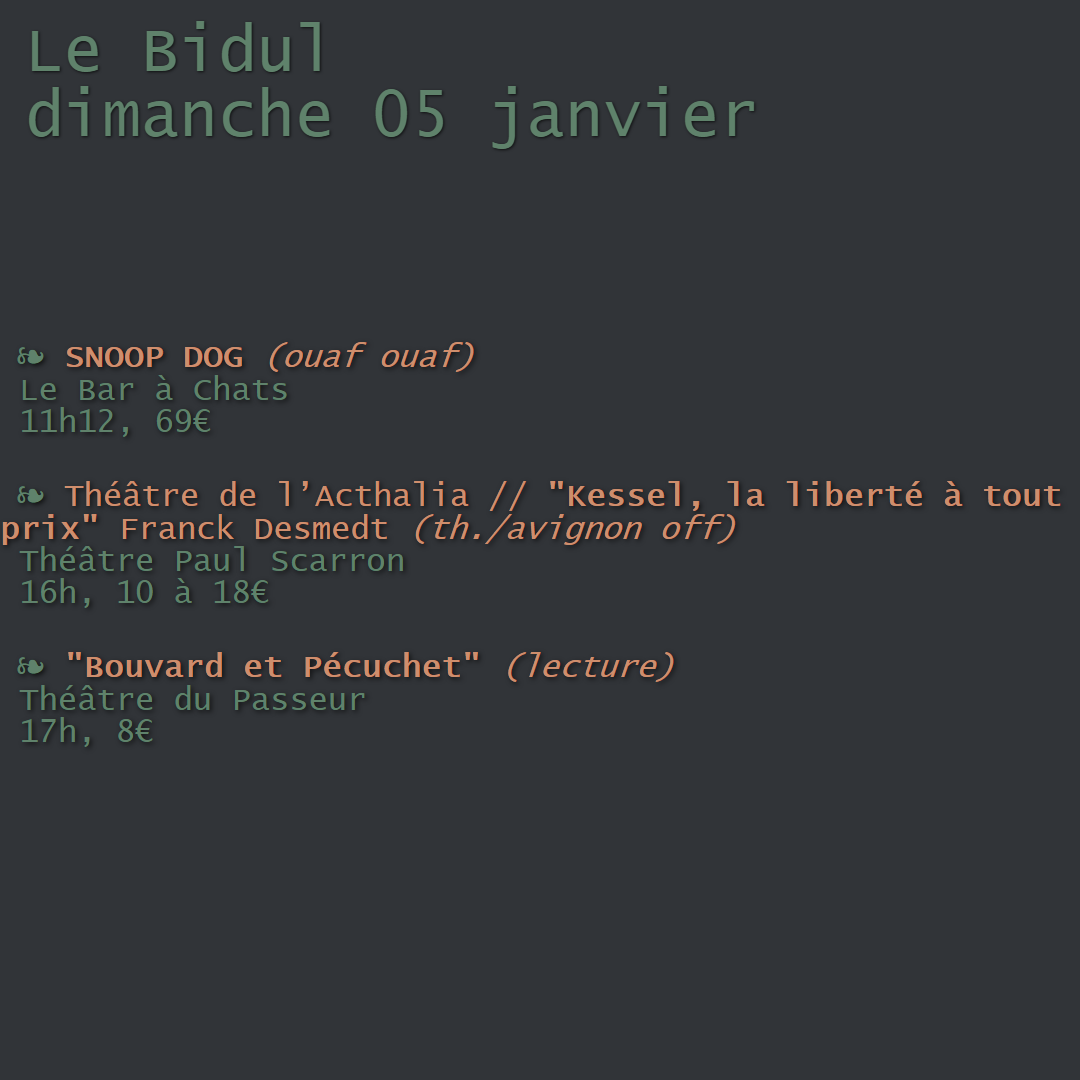
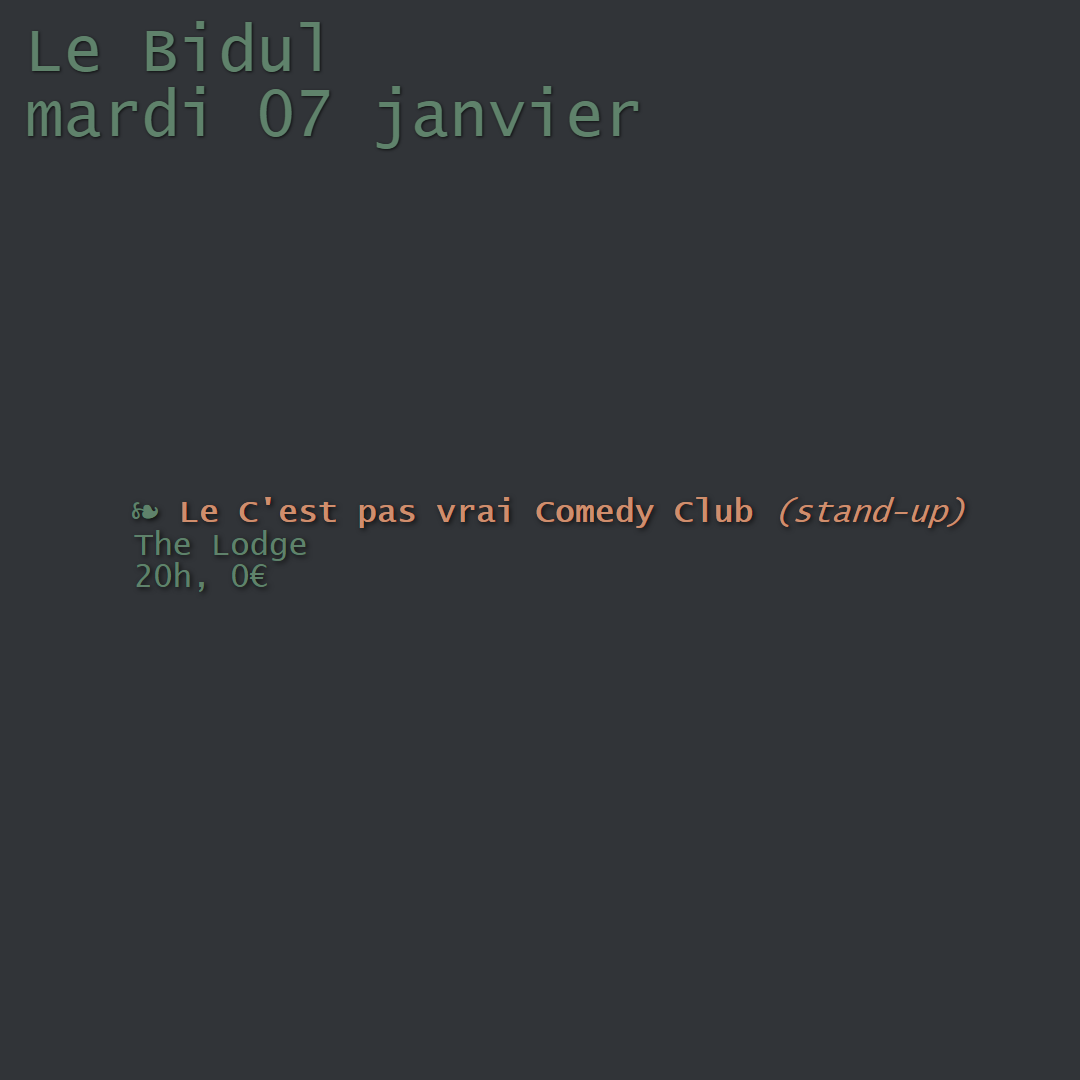
First working version

diff --git a/output/output_image.png.html b/output/output_image.png.html
@@ -44,13 +44,10 @@
             </style>
         </head>
         <body>
-            <div class="top-left">Le Bidul<br>dimanche 05 janvier</div>
+            <div class="top-left">Le Bidul<br>mardi 07 janvier</div>
             <div class="text">
-                <p style="font-family: Lucida Console">&ensp;&#10087 <span style="color:#CF8E6D"><strong>SNOOP DOG</strong> <em>(ouaf ouaf)</em></span><br>&nbspLe Bar à Chats <br>&nbsp11h12, 69€</p>
-
-<p style="font-family: Lucida Console">&ensp;&#10087 <span style="color:#CF8E6D">Théâtre de l’Acthalia // <strong>"Kessel, la liberté à tout prix"</strong> Franck Desmedt <em>(th./avignon off)</em></span><br>&nbspThéâtre Paul Scarron <br>&nbsp16h, 10 à 18€</p>
-
-<p style="font-family: Lucida Console">&ensp;&#10087 <span style="color:#CF8E6D"><strong>"Bouvard et Pécuchet"</strong>  <em>(lecture)</em></span><br>&nbspThéâtre du Passeur <br>&nbsp17h, 8€</p>
+                <p style="font-family: Lucida Console">&ensp;&#10087 <span style="color:#CF8E6D"><strong>Le C'est pas vrai Comedy Club</strong> <em>(stand-up)</em></span><br>&nbspThe Lodge <br>&nbsp20h, 0€</p>
             </div>
         </body>
         </html>
+    

diff --git a/main.py b/main.py
@@ -7,6 +7,7 @@ import schedule
 import locale
 from datetime import datetime
 import requests
+import sys
 
 # Configuration
 CSV_FILE = "./sample/202501_tapage_biduleur_janvier_2025.csv.md.tsv"
@@ -40,13 +41,9 @@ def upload_image_to_facebook(page_id, access_token, image_path, message):
     else:
         print("Error posting image:", response.json())
 
-# Call the function to post the image
-upload_image_to_facebook(PAGE_ID, ACCESS_TOKEN, IMAGE_PATH, MESSAGE)
-
 ## automate in cloud (git ?)
 ## post facebook
-## integrate enhanced biduleur to directly format the extracted string
-## push code to github
+## integrate enhanced bidul.biduleur to directly format the extracted string
 
 
 def extract_markdown_by_date(csv_file, date):
@@ -74,59 +71,11 @@ def get_date_info():
 
 def html_to_image(html_content, date, output_image):
 
-    rendered_html = f"""
-        <!DOCTYPE html>
-        <html lang="en">
-        <head>
-            <meta charset="UTF-8">
-            <meta name="viewport" content="width=device-width, initial-scale=1.0">
-            <title>Instagram Image</title>
-            <style>
-                body {{            
-                    margin: 0;
-                    padding: 0;
-                    height: 100vh;
-                    width: 100vw;
-                    background-color: #313438;
-                    background-position: center;
-                    display: flex;
-                    justify-content: center;
-                    align-items: center;
-                    position: relative;
-                }}
-                .text {{
-                    color: #5F826B;
-                    font-size: 2rem;
-                    font-family: Lucida Console;
-                    text-shadow: 2px 2px 5px rgba(0, 0, 0, 0.7);
-                    text-align: left;
-                }}
-                .top-left,
-                .top-right {{
-                    position: absolute;
-                    top: 20px;
-                    font-family: Lucida Console;
-                    font-size: 4rem; 
-                    color: #5F826B;
-                    text-shadow: 1px 1px 3px rgba(0, 0, 0, 0.7);
-                }}
-                .top-left {{
-                    left: 25px;
-                }}
-                .top-right {{
-                    right: 25px;
-                    text-align: right;
-                }}
-            </style>
-        </head>
-        <body>
-            <div class="top-left">Le Bidul<br>{date}</div>
-            <div class="text">
-                {html_content}
-            </div>
-        </body>
-        </html>
-    """
+    rendered_html = templates.render_template(
+        templates.HTML_TEMPLATE_GREEN_GREY_ORANGE,
+        content=html_content,
+        date=date
+    )
 
     # Render HTML to an image
     hti = Html2Image(output_path='./output/')
@@ -136,15 +85,15 @@ def html_to_image(html_content, date, output_image):
 
 
 def post_to_instagram(image_path, caption, username, password):
-    cl = Client()
-    cl.login(username, password)
-    cl.photo_upload(image_path, caption)
+    if post_to_instagram:
+        cl = Client()
+        cl.login(username, password)
+        cl.photo_upload(image_path, caption)
 
 
-def main():
+def main(instagram_post=True):
     day, today, date_in_french = get_date_info()
-    day = datetime.now().strftime("%d")
-    day = "12"
+    # day = "12"
     data = extract_markdown_by_date(CSV_FILE, day)
 
     if data.empty:
@@ -162,8 +111,11 @@ def main():
 
     # Post to Instagram
     text_post = get_post_text(date_in_french)
-    post_to_instagram(output_image_path[0], text_post, INSTAGRAM_USERNAME, INSTAGRAM_PASSWORD)
-    print(f"Posted update for {today} - output file: {output_image_path}")
+    if instagram_post:
+        post_to_instagram(output_image_path[0], text_post, INSTAGRAM_USERNAME, INSTAGRAM_PASSWORD)
+        print(f"Instagram post for {today} published - output file: {output_image_path}")
+
+    print(f"Image Generated for {today} - output file: {output_image_path}")
 
 
 # # Schedule the task daily at a specific time
@@ -176,4 +128,5 @@ def main():
 
 
 if __name__ == "__main__":
-    main()
+    instagram_post = "False" not in sys.argv
+    main(instagram_post)

diff --git a/templates.py b/templates.py
@@ -1,6 +1,6 @@
 from jinja2 import Template
 
-HTML_TEMPLATE_WITH_IMAGE = """
+HTML_TEMPLATE_WITH_IMAGE_OLD = """
         <!DOCTYPE html>
         <html lang="en">
         <head>
@@ -8,7 +8,7 @@ HTML_TEMPLATE_WITH_IMAGE = """
             <meta name="viewport" content="width=device-width, initial-scale=1.0">
             <title>Instagram Image</title>
             <style>
-                body {{
+                body {
                     margin: 0;
                     padding: 0;
                     height: 100vh;
@@ -20,14 +20,14 @@ HTML_TEMPLATE_WITH_IMAGE = """
                     justify-content: center;
                     align-items: center;
                     
-                }}
-                .text {{
+                }
+                .text {
                     color: #FF0000;
                     font-size: 2rem;
                     font-family: Cutive Mono, sans-serif;
                     text-shadow: 2px 2px 5px rgba(0, 0, 0, 0.7);
                     text-align: left;
-                }}
+                }
             </style>
         </head>
         <body>
@@ -38,7 +38,7 @@ HTML_TEMPLATE_WITH_IMAGE = """
         </html>
     """
 
-HTML_TEMPLATE_GREEN_GREY_ORANGE = """
+HTML_TEMPLATE_GREEN_GREY_ORANGE_OLD = """
         <!DOCTYPE html>
         <html lang="en">
         <head>
@@ -46,7 +46,7 @@ HTML_TEMPLATE_GREEN_GREY_ORANGE = """
             <meta name="viewport" content="width=device-width, initial-scale=1.0">
             <title>Instagram Image</title>
             <style>
-                body {{
+                body {
                     margin: 0;
                     padding: 0;
                     height: 100vh;
@@ -57,14 +57,14 @@ HTML_TEMPLATE_GREEN_GREY_ORANGE = """
                     justify-content: center;
                     align-items: center;
 
-                }}
-                .text {{
+                }
+                .text {
                     color: #5F826B;
                     font-size: 20px;
                     font-family: Cutive Mono, sans-serif;
                     text-shadow: 2px 2px 5px rgba(0, 0, 0, 0.7);
                     text-align: left;
-                }}
+                }
             </style>
         </head>
         <body>
@@ -76,6 +76,63 @@ HTML_TEMPLATE_GREEN_GREY_ORANGE = """
         </body>
         </html>
     """
+
+
+HTML_TEMPLATE_GREEN_GREY_ORANGE = """
+        <!DOCTYPE html>
+        <html lang="en">
+        <head>
+            <meta charset="UTF-8">
+            <meta name="viewport" content="width=device-width, initial-scale=1.0">
+            <title>Instagram Image</title>
+            <style>
+                body {            
+                    margin: 0;
+                    padding: 0;
+                    height: 100vh;
+                    width: 100vw;
+                    background-color: #313438;
+                    background-position: center;
+                    display: flex;
+                    justify-content: center;
+                    align-items: center;
+                    position: relative;
+                }
+                .text {
+                    color: #5F826B;
+                    font-size: 2rem;
+                    font-family: Lucida Console;
+                    text-shadow: 2px 2px 5px rgba(0, 0, 0, 0.7);
+                    text-align: left;
+                }
+                .top-left,
+                .top-right {
+                    position: absolute;
+                    top: 20px;
+                    font-family: Lucida Console;
+                    font-size: 4rem; 
+                    color: #5F826B;
+                    text-shadow: 1px 1px 3px rgba(0, 0, 0, 0.7);
+                }
+                .top-left {
+                    left: 25px;
+                }
+                .top-right {
+                    right: 25px;
+                    text-align: right;
+                }
+            </style>
+        </head>
+        <body>
+            <div class="top-left">Le Bidul<br>{{ date }}</div>
+            <div class="text">
+                {{ content }}
+            </div>
+        </body>
+        </html>
+    """
+
+
 
 
 # Function to render a template with variables
